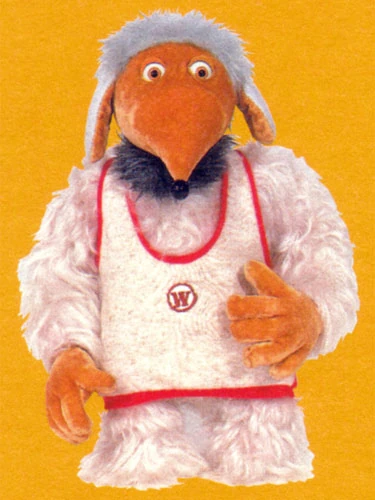
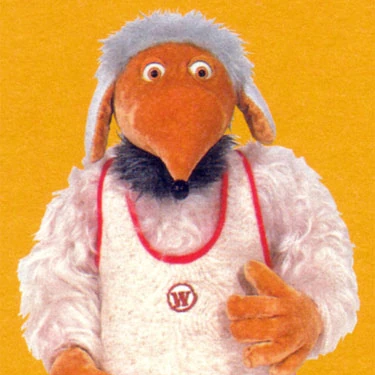
just some touch ups

diff --git a/server/db/seeds/scenes.js b/server/db/seeds/scenes.js
@@ -19,7 +19,8 @@ exports.seed = async function (knex) {
       level_id: 3,
       text: "Me again, Just checking in that you, still in the building? I left my swipe card in the basement if you're still around maybe you could grab for me? Sorry should've mentioned before you turned all the lights off. Don't mind the javascript carnival gang, they get a little restless down there. But anyways let me know!",
       final: false,
-      slack: 'Enjoy the little things in life.',
+      slack:
+        'You asked me to remind you about this message from @facilitator-piwakawaka-23',
     },
     {
       id: 3,
@@ -34,7 +35,7 @@ exports.seed = async function (knex) {
       text: "Oh, you made it out of the building? Well, thats great then! uhh... i suppose we'll see you tomorrow then.",
       final: false,
       slack:
-        '7:18 PM: 👍 I will remind #teams-meeting at 10:30AM tomorrow morning.',
+        '👍 I will remind you of #teams-meeting at 10:30AM tomorrow morning.',
     },
     {
       id: 5,

diff --git a/public/styles/index.css b/public/styles/index.css
@@ -375,10 +375,12 @@ input::-webkit-inner-spin-button {
 
 .pfp {
   width: 10%;
+  object-fit:contain;
 }
 
 .slackbot {
   width: 10%;
+  object-fit:contain;
 }
 
 .slack-text {
@@ -404,7 +406,7 @@ input::-webkit-inner-spin-button {
 }
 
 .slackbot-message-text{
-  width: 80%;
+  width: 90%;
   margin-left: 10px;
   flex-direction: column;
 }
@@ -755,7 +757,7 @@ input::-webkit-inner-spin-button {
   border: 2px solid #0BD7EC;
   border-radius: 50%;
   max-width: 200px;
-
+  object-fit: cover;
 }
 
 
